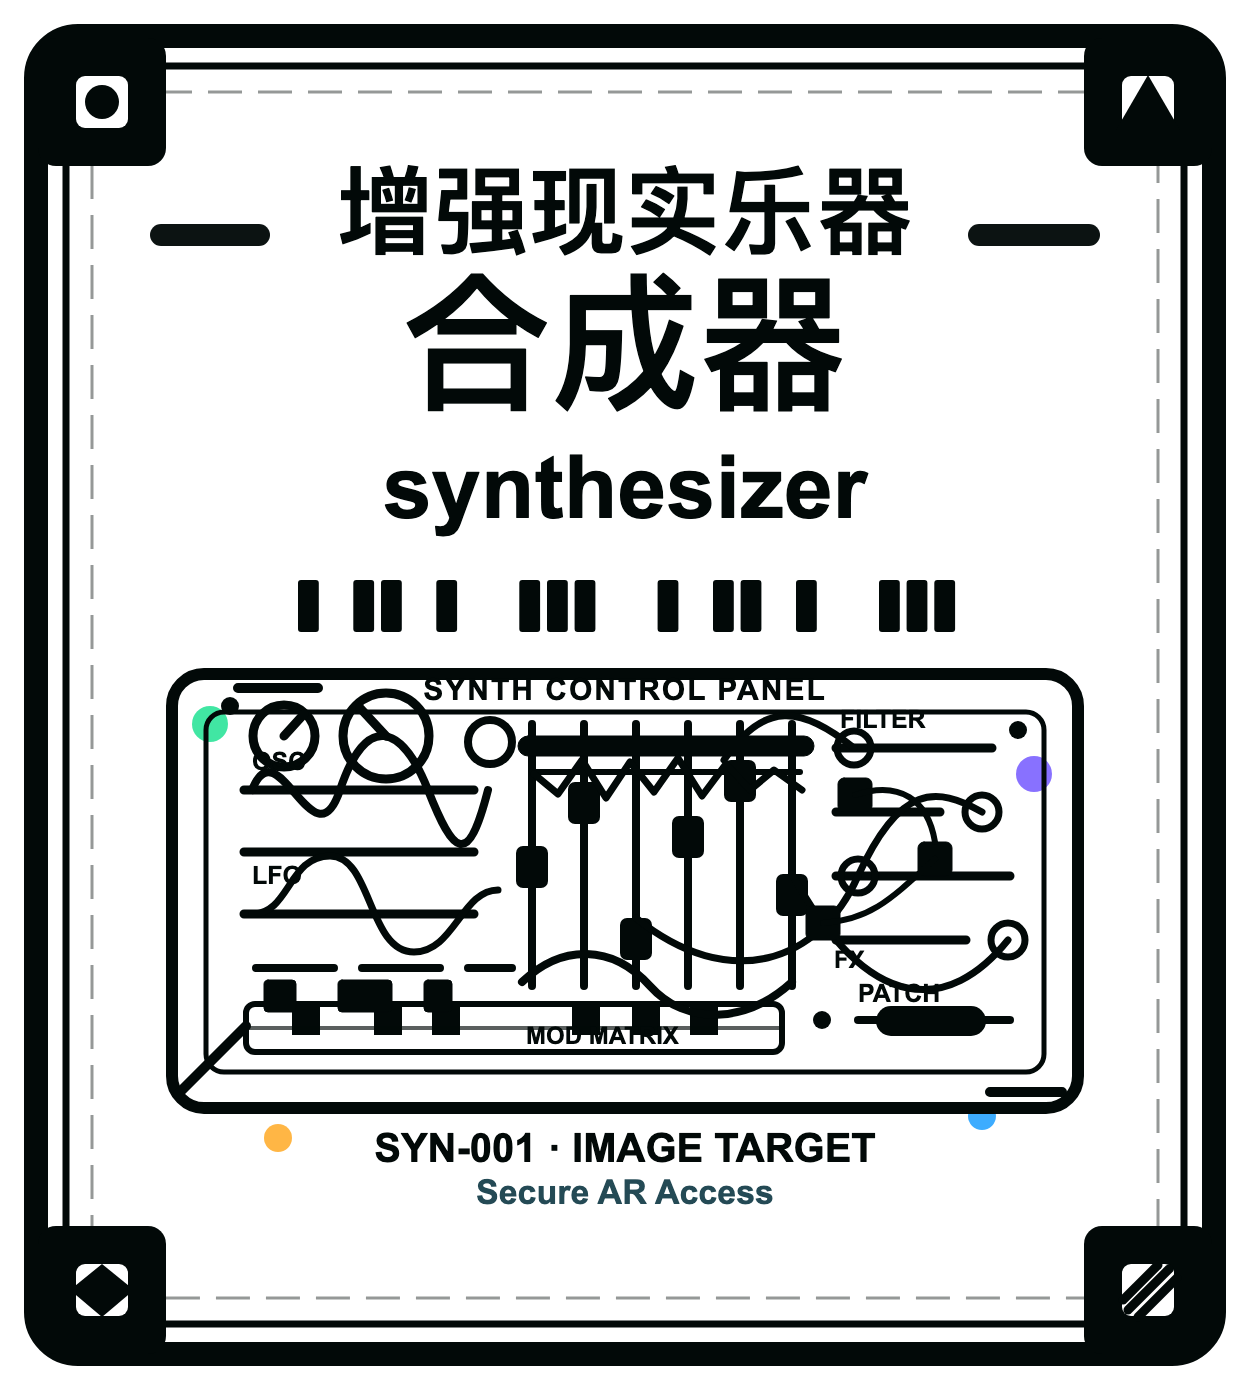
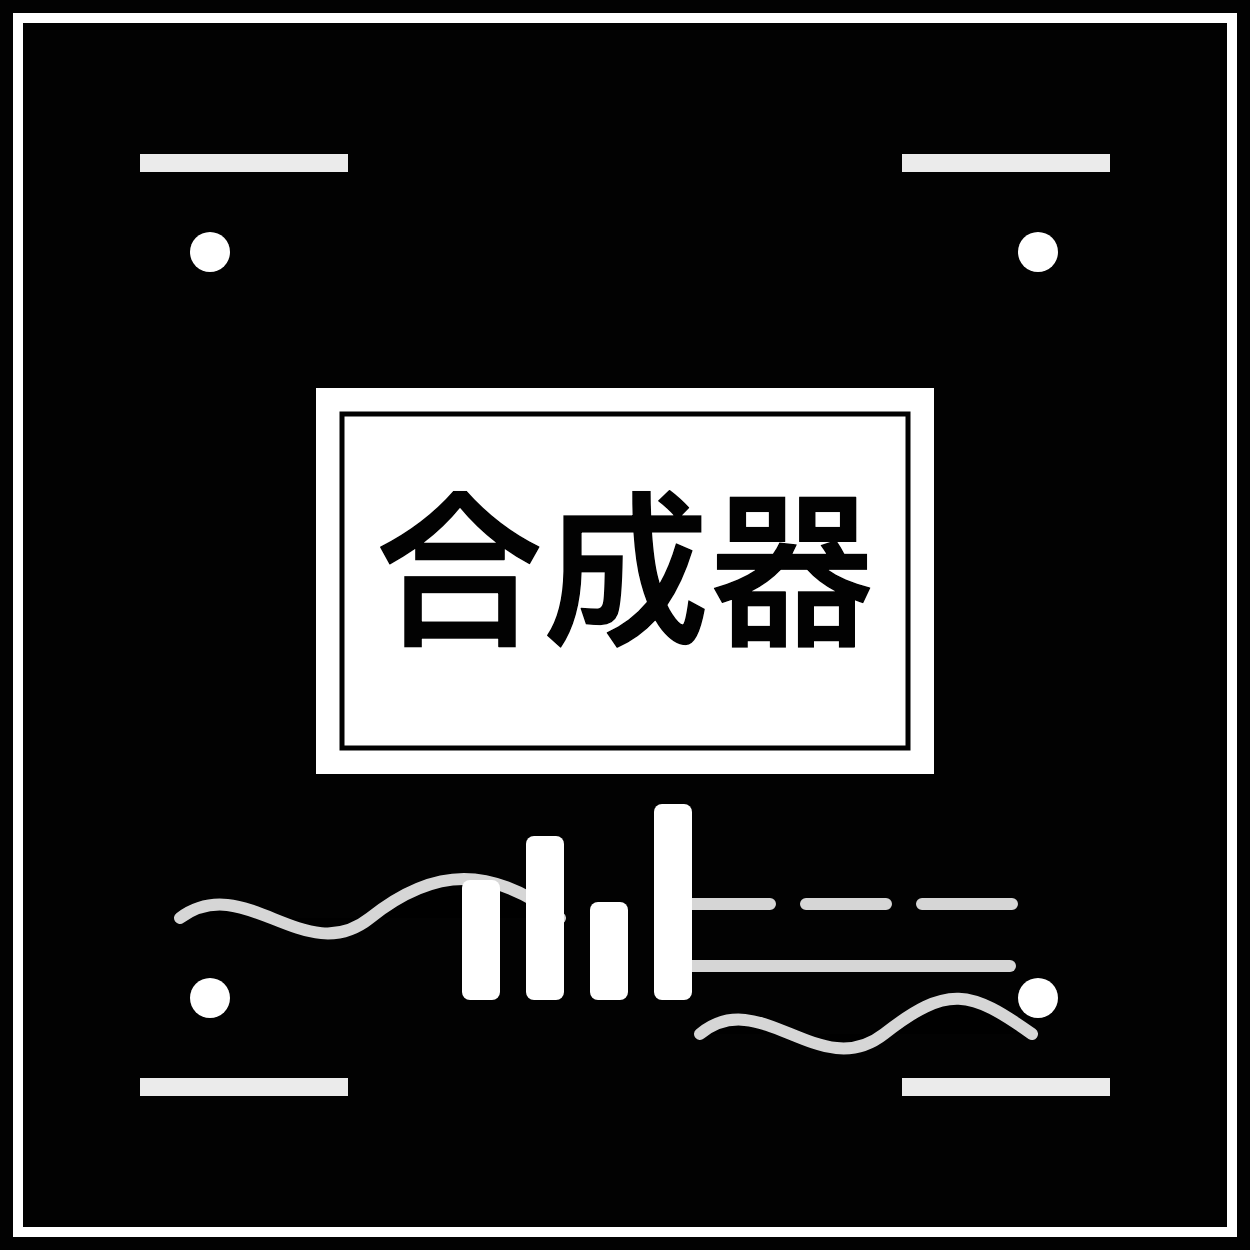
Use Hiro text marker synth card

diff --git a/assets/tracker.js b/assets/tracker.js
@@ -24,6 +24,9 @@ export function trackCardPoseFromFrame(previousPose, cardTarget, frame = null) {
 
 export function detectCardPoseFromFrame(cardTarget, frame = null) {
   if (!frame?.imageData?.data || !frame.width || !frame.height) return null;
+  const textPanelPose = detectHiroTextMarkerPose(cardTarget, frame);
+  if (textPanelPose) return textPanelPose;
+
   const candidates = findDarkSquareCandidates(frame);
   if (candidates.length < 4) return null;
 
@@ -43,6 +46,53 @@ export function detectCardPoseFromFrame(cardTarget, frame = null) {
     dataConfidence,
     decodedPayload: cardTarget?.encodedPayload || ""
   };
+}
+
+function detectHiroTextMarkerPose(cardTarget, frame) {
+  const panel = cardTarget?.textPanel;
+  if (!cardTarget?.hiroMarker?.enabled || !panel?.w || !panel?.h) return null;
+  const candidates = findBrightPanelCandidates(frame);
+  let best = null;
+  for (const candidate of candidates) {
+    const panelAspect = panel.w / panel.h;
+    const aspect = candidate.width / Math.max(candidate.height, 1);
+    if (aspect < panelAspect * 0.58 || aspect > panelAspect * 1.62) continue;
+    const whiteRatio = candidate.fill;
+    const surroundDarkRatio = sampleRectRingDarkRatio(frame, candidate.bounds, 0.32);
+    const textDarkRatio = sampleRectDarkRatio(frame, insetBounds(candidate.bounds, 0.08), 104);
+    if (whiteRatio < (panel.minWhiteRatio ?? 0.46)) continue;
+    if (surroundDarkRatio < (panel.minDarkSurroundRatio ?? 0.28)) continue;
+    if (textDarkRatio < (panel.minTextDarkRatio ?? 0.075)) continue;
+
+    const halfW = candidate.width / (panel.w * 2);
+    const halfH = candidate.height / (panel.h * 2);
+    const panelCenterOffsetX = (panel.x + panel.w * 0.5 - 0.5) * halfW * 2;
+    const panelCenterOffsetY = (panel.y + panel.h * 0.5 - 0.5) * halfH * 2;
+    const cardCenter = point(candidate.x - panelCenterOffsetX, candidate.y - panelCenterOffsetY);
+    const base = makeGeometry(cardCenter, point(1, 0), point(0, 1), halfW, halfH, cardTarget);
+    const textConfidence = sampleTextSignature(base, cardTarget, frame);
+    const dataConfidence = 1;
+    const wholeCardConfidence = clamp(
+      whiteRatio * 0.32 + surroundDarkRatio * 0.42 + Math.min(1, textDarkRatio / 0.22) * 0.38,
+      0,
+      1
+    );
+    const pose = {
+      ...base,
+      markerRatios: [surroundDarkRatio, whiteRatio, textDarkRatio, 1],
+      visibleMarkers: 4,
+      wholeCardConfidence,
+      textConfidence,
+      dataConfidence,
+      usesWholeCardTarget: true,
+      source: "hiro-text-marker",
+      decodedPayload: cardTarget?.encodedPayload || ""
+    };
+    if (!isRecognizedSynthCard(pose, textConfidence, dataConfidence, cardTarget)) continue;
+    const score = wholeCardConfidence + textConfidence + Math.min(1, candidate.area / (frame.width * frame.height * 0.18));
+    if (!best || score > best.score) best = { score, pose };
+  }
+  return best?.pose || null;
 }
 
 function isRecognizedSynthCard(pose, textConfidence, dataConfidence, cardTarget) {
@@ -288,6 +338,148 @@ function findDarkSquareCandidates(frame) {
   return candidates
     .sort((a, b) => b.area - a.area)
     .slice(0, 36);
+}
+
+function findBrightPanelCandidates(frame) {
+  const step = Math.max(4, Math.round(Math.min(frame.width, frame.height) / 180));
+  const gridW = Math.ceil(frame.width / step);
+  const gridH = Math.ceil(frame.height / step);
+  const bright = new Uint8Array(gridW * gridH);
+  const seen = new Uint8Array(gridW * gridH);
+  const data = frame.imageData.data;
+
+  for (let gy = 0; gy < gridH; gy += 1) {
+    const y = Math.min(frame.height - 1, gy * step);
+    for (let gx = 0; gx < gridW; gx += 1) {
+      const x = Math.min(frame.width - 1, gx * step);
+      const i = (y * frame.width + x) * 4;
+      const luminance = data[i] * 0.299 + data[i + 1] * 0.587 + data[i + 2] * 0.114;
+      if (luminance > 178) bright[gy * gridW + gx] = 1;
+    }
+  }
+
+  const candidates = [];
+  const stack = [];
+  const minSide = Math.min(frame.width, frame.height);
+  const minPanelW = Math.max(54, minSide * 0.16);
+  const minPanelH = Math.max(44, minSide * 0.10);
+  const maxPanelW = frame.width * 0.78;
+  const maxPanelH = frame.height * 0.62;
+
+  for (let gy = 0; gy < gridH; gy += 1) {
+    for (let gx = 0; gx < gridW; gx += 1) {
+      const start = gy * gridW + gx;
+      if (!bright[start] || seen[start]) continue;
+      seen[start] = 1;
+      stack.length = 0;
+      stack.push(start);
+      let count = 0;
+      let minGX = gx;
+      let maxGX = gx;
+      let minGY = gy;
+      let maxGY = gy;
+      let sumX = 0;
+      let sumY = 0;
+
+      while (stack.length) {
+        const idx = stack.pop();
+        const cx = idx % gridW;
+        const cy = Math.floor(idx / gridW);
+        count += 1;
+        sumX += cx;
+        sumY += cy;
+        minGX = Math.min(minGX, cx);
+        maxGX = Math.max(maxGX, cx);
+        minGY = Math.min(minGY, cy);
+        maxGY = Math.max(maxGY, cy);
+
+        for (let oy = -1; oy <= 1; oy += 1) {
+          for (let ox = -1; ox <= 1; ox += 1) {
+            if (Math.abs(ox) + Math.abs(oy) !== 1) continue;
+            const nx = cx + ox;
+            const ny = cy + oy;
+            if (nx < 0 || ny < 0 || nx >= gridW || ny >= gridH) continue;
+            const next = ny * gridW + nx;
+            if (!bright[next] || seen[next]) continue;
+            seen[next] = 1;
+            stack.push(next);
+          }
+        }
+      }
+
+      const width = (maxGX - minGX + 1) * step;
+      const height = (maxGY - minGY + 1) * step;
+      if (width < minPanelW || height < minPanelH || width > maxPanelW || height > maxPanelH) continue;
+      const fill = count / Math.max((maxGX - minGX + 1) * (maxGY - minGY + 1), 1);
+      if (fill < 0.38) continue;
+      candidates.push({
+        x: ((sumX / count) + 0.5) * step,
+        y: ((sumY / count) + 0.5) * step,
+        width,
+        height,
+        area: count * step * step,
+        fill,
+        bounds: {
+          x: minGX * step,
+          y: minGY * step,
+          w: width,
+          h: height
+        }
+      });
+    }
+  }
+
+  return candidates
+    .sort((a, b) => (b.area * b.fill) - (a.area * a.fill))
+    .slice(0, 12);
+}
+
+function insetBounds(bounds, insetRatio) {
+  const dx = bounds.w * insetRatio;
+  const dy = bounds.h * insetRatio;
+  return {
+    x: bounds.x + dx,
+    y: bounds.y + dy,
+    w: Math.max(1, bounds.w - dx * 2),
+    h: Math.max(1, bounds.h - dy * 2)
+  };
+}
+
+function sampleRectDarkRatio(frame, bounds, threshold = 104) {
+  if (!frame?.imageData?.data) return 0;
+  const data = frame.imageData.data;
+  const minX = Math.max(0, Math.floor(bounds.x));
+  const maxX = Math.min(frame.width - 1, Math.ceil(bounds.x + bounds.w));
+  const minY = Math.max(0, Math.floor(bounds.y));
+  const maxY = Math.min(frame.height - 1, Math.ceil(bounds.y + bounds.h));
+  let dark = 0;
+  let total = 0;
+  for (let y = minY; y <= maxY; y += 3) {
+    for (let x = minX; x <= maxX; x += 3) {
+      const i = (y * frame.width + x) * 4;
+      const luminance = data[i] * 0.299 + data[i + 1] * 0.587 + data[i + 2] * 0.114;
+      if (luminance < threshold) dark += 1;
+      total += 1;
+    }
+  }
+  return total ? dark / total : 0;
+}
+
+function sampleRectRingDarkRatio(frame, bounds, expandRatio = 0.32) {
+  const dx = bounds.w * expandRatio;
+  const dy = bounds.h * expandRatio;
+  const outer = {
+    x: bounds.x - dx,
+    y: bounds.y - dy,
+    w: bounds.w + dx * 2,
+    h: bounds.h + dy * 2
+  };
+  const outerRatio = sampleRectDarkRatio(frame, outer, 112);
+  const innerRatio = sampleRectDarkRatio(frame, bounds, 112);
+  const outerArea = Math.max(1, outer.w * outer.h);
+  const innerArea = Math.max(1, bounds.w * bounds.h);
+  const ringArea = Math.max(1, outerArea - innerArea);
+  return clamp((outerRatio * outerArea - innerRatio * innerArea) / ringArea, 0, 1);
 }
 
 function chooseExtremeCorners(candidates) {

diff --git a/assets/cards.js b/assets/cards.js
@@ -4,37 +4,40 @@ export const CARD_TARGETS = {
   "card-synth-v1": {
     id: "card-synth-v1",
     instrumentId: "synth",
-    title: "增强现实乐器 / 合成器 / synthesizer",
-    markerText: ["增强现实乐器", "合成器", "synthesizer"],
-    encodedPayload: "instrument=synth;card=card-synth-v1;markerText=增强现实乐器|合成器|synthesizer",
-    image: "./assets/marker-card.png",
-    cardAspect: 1250 / 1390,
+    title: "合成器",
+    markerText: ["合成器"],
+    encodedPayload: "instrument=synth;card=card-synth-v1;markerText=合成器",
+    image: "./public/cards/synth-card.png",
+    cardAspect: 1,
     qrCenterYOffset: 0,
     cornerMarkerRatio: {
       x: 0.84,
       y: 0.855
     },
-    textSignatureMinConfidence: 0.42,
+    textSignatureMinConfidence: 0.36,
     textSignatureRegions: [
-      { x: 0.18, y: 0.155, w: 0.64, h: 0.075, minDarkRatio: 0.035 },
-      { x: 0.26, y: 0.255, w: 0.48, h: 0.100, minDarkRatio: 0.045 },
-      { x: 0.28, y: 0.335, w: 0.44, h: 0.075, minDarkRatio: 0.035 }
+      { x: 0.275, y: 0.360, w: 0.450, h: 0.235, minDarkRatio: 0.085 },
+      { x: 0.325, y: 0.430, w: 0.350, h: 0.140, minDarkRatio: 0.145 }
     ],
-    dataSignature: {
-      bits: "101101001110010110100111",
-      x: 0.2344,
-      y: 0.4173,
-      w: 0.5312,
-      h: 0.038,
-      minConfidence: 0.48,
-      oneMinDarkRatio: 0.13,
-      zeroMaxDarkRatio: 0.22
+    textPanel: {
+      x: 0.253,
+      y: 0.310,
+      w: 0.494,
+      h: 0.309,
+      minWhiteRatio: 0.46,
+      minDarkSurroundRatio: 0.28,
+      minTextDarkRatio: 0.075
+    },
+    hiroMarker: {
+      enabled: true,
+      anchorRegion: "textPanel",
+      decodedInstrument: "synth"
     },
     recognition: {
-      minTextConfidence: 0.34,
-      minDataConfidence: 0.42,
-      minCombinedConfidence: 0.54,
-      minCornerConfidence: 0.44,
+      minTextConfidence: 0.30,
+      minDataConfidence: 0.20,
+      minCombinedConfidence: 0.42,
+      minCornerConfidence: 0.24,
       strictDataSignature: false
     },
     anchor: {

diff --git a/index.html b/index.html
@@ -7,7 +7,7 @@
   <meta name="apple-mobile-web-app-capable" content="yes">
   <meta name="apple-mobile-web-app-status-bar-style" content="black-translucent">
   <title>AR Mini Synth Workstation</title>
-  <link rel="stylesheet" href="./assets/style.css?v=20260526-panel-card-v4">
+  <link rel="stylesheet" href="./assets/style.css?v=20260526-text-block-card-v5">
   <script>
     (() => {
       const local = ["localhost", "127.0.0.1"].includes(location.hostname);
@@ -43,6 +43,6 @@
     </section>
   </main>
 
-  <script type="module" src="./assets/app.js?v=20260526-panel-card-v4"></script>
+  <script type="module" src="./assets/app.js?v=20260526-text-block-card-v5"></script>
 </body>
 </html>

diff --git a/assets/app.js b/assets/app.js
@@ -1,1 +1,1 @@
-import "./runtime.js?v=20260526-panel-card-v4";
+import "./runtime.js?v=20260526-text-block-card-v5";